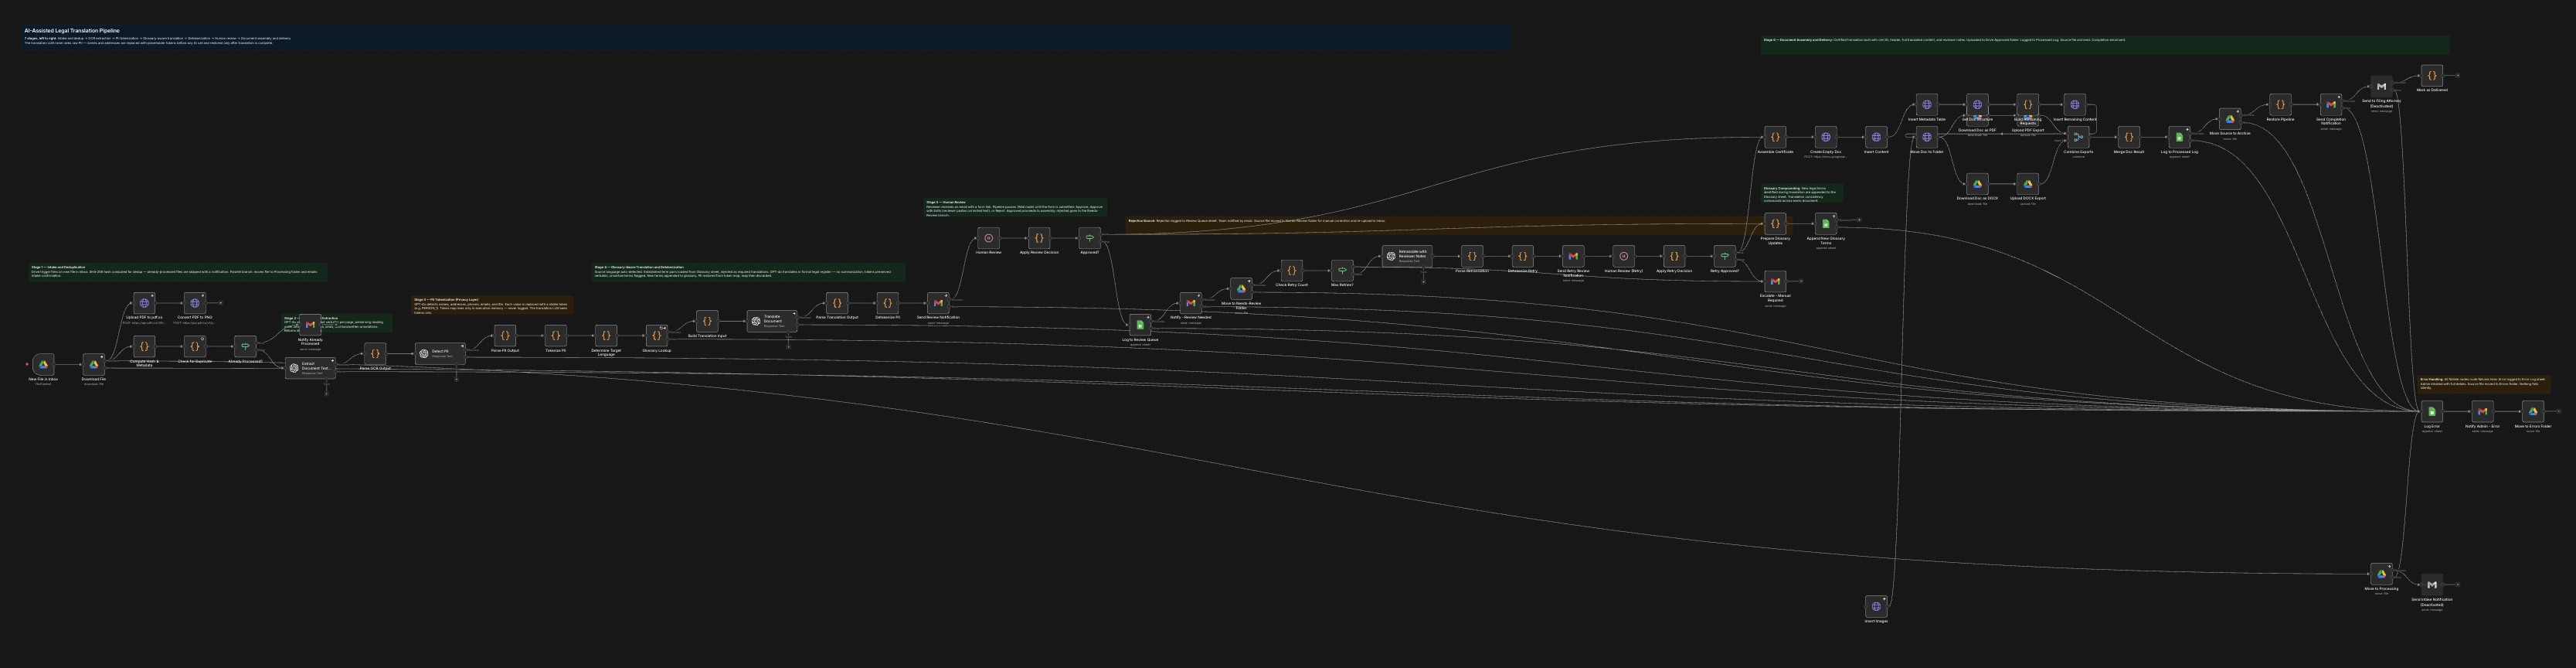
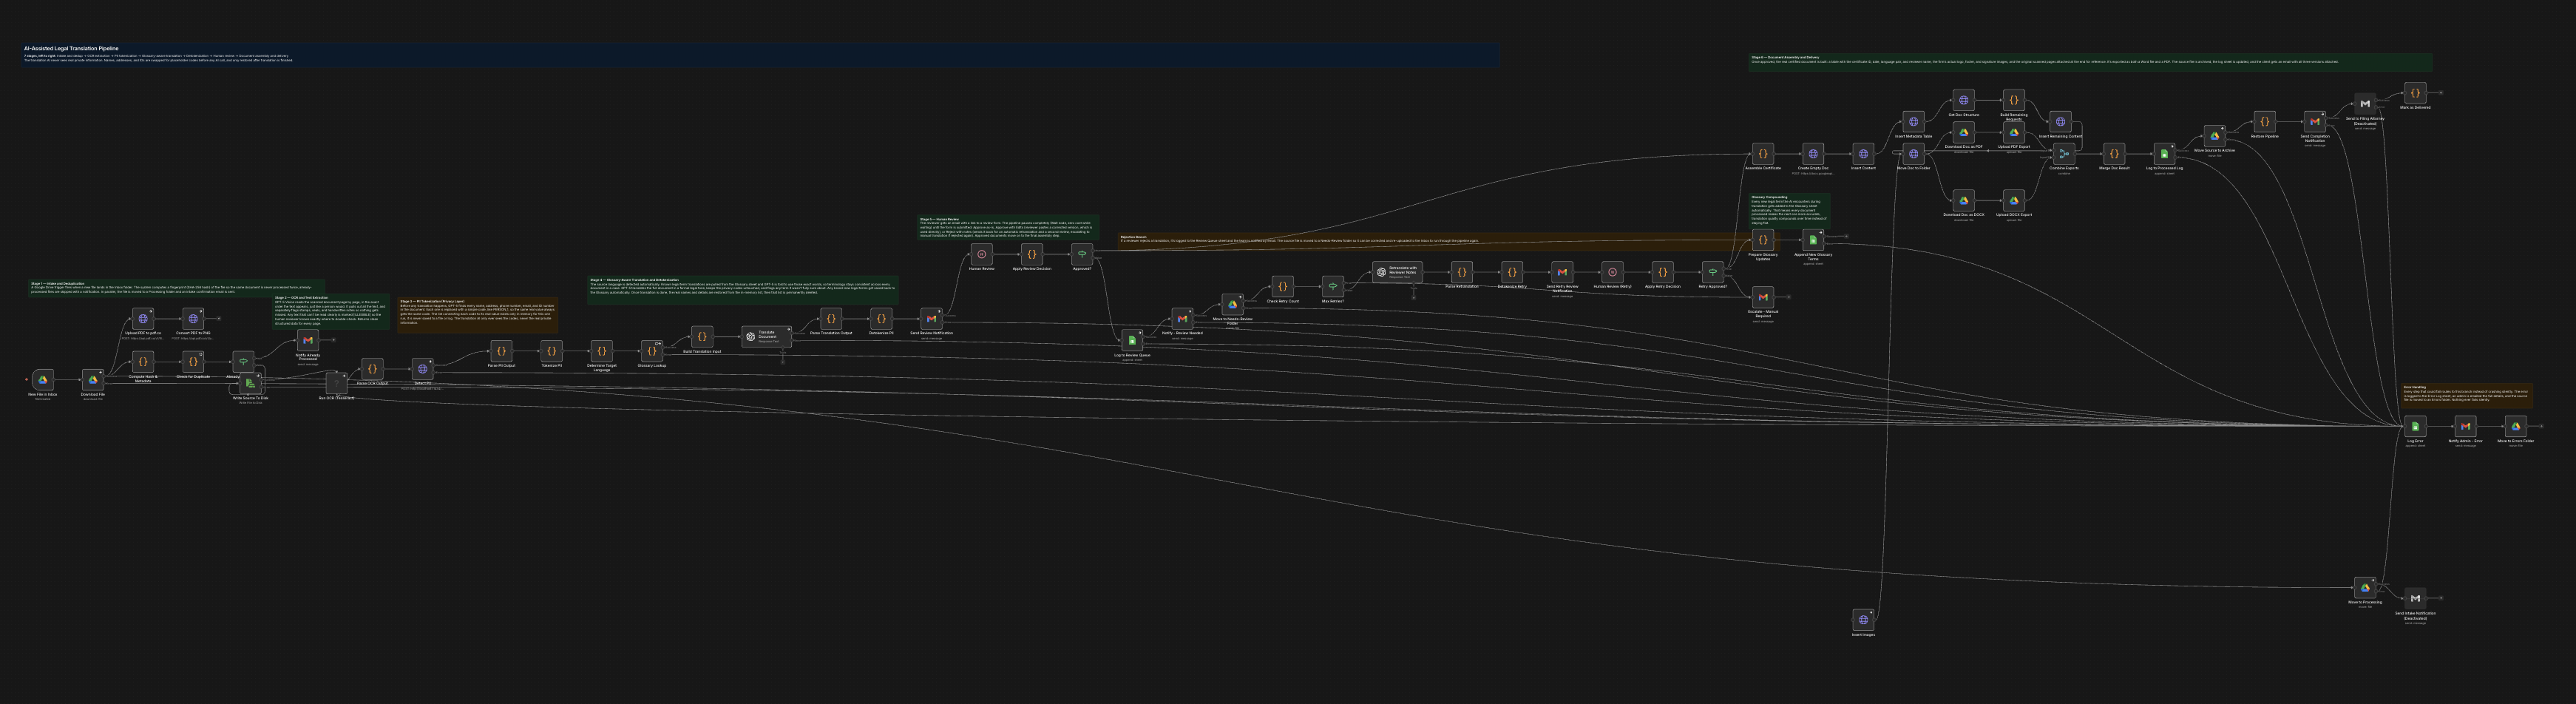
Refresh workflow screenshot and add privacy fix to bugs table
New workflow.png shows the post-fix canvas (local Tesseract OCR + local
Ollama PII detection nodes replacing the old GPT-5 Vision/GPT-5 nodes).
Also added the privacy fix as an entry in demo.html's bugs table,
matching the README's Challenges Solved table.

diff --git a/AI-Legal-Document-Translation-Pipeline/demo.html b/AI-Legal-Document-Translation-Pipeline/demo.html
@@ -547,6 +547,12 @@ Output:
         <td>The monitor polled hourly and re-sent a notification every time an execution was still over a time threshold, with no memory of what had already been sent.</td>
         <td class="fix-col">Track sent-tier state per execution in n8n workflow static data (<code>$getWorkflowStaticData</code>), so each of 4 tiers (4h/12h/24h/48h) fires exactly once.</td>
       </tr>
+      <tr>
+        <td>Raw document image and unredacted PII reached a third-party AI service before tokenization</td>
+        <td><span class="bug-sev sev-high">HIGH</span></td>
+        <td>OCR (GPT-5 Vision) and PII detection (GPT-5) both ran on the cloud model — the raw scanned image and unredacted names/addresses/ID numbers reached a third-party provider before any redaction happened.</td>
+        <td class="fix-col">Replaced both steps with fully local processing: Tesseract for OCR, a local Ollama model for PII detection. GPT-5 now only ever sees text after tokenization.</td>
+      </tr>
     </tbody>
   </table>
 </section>